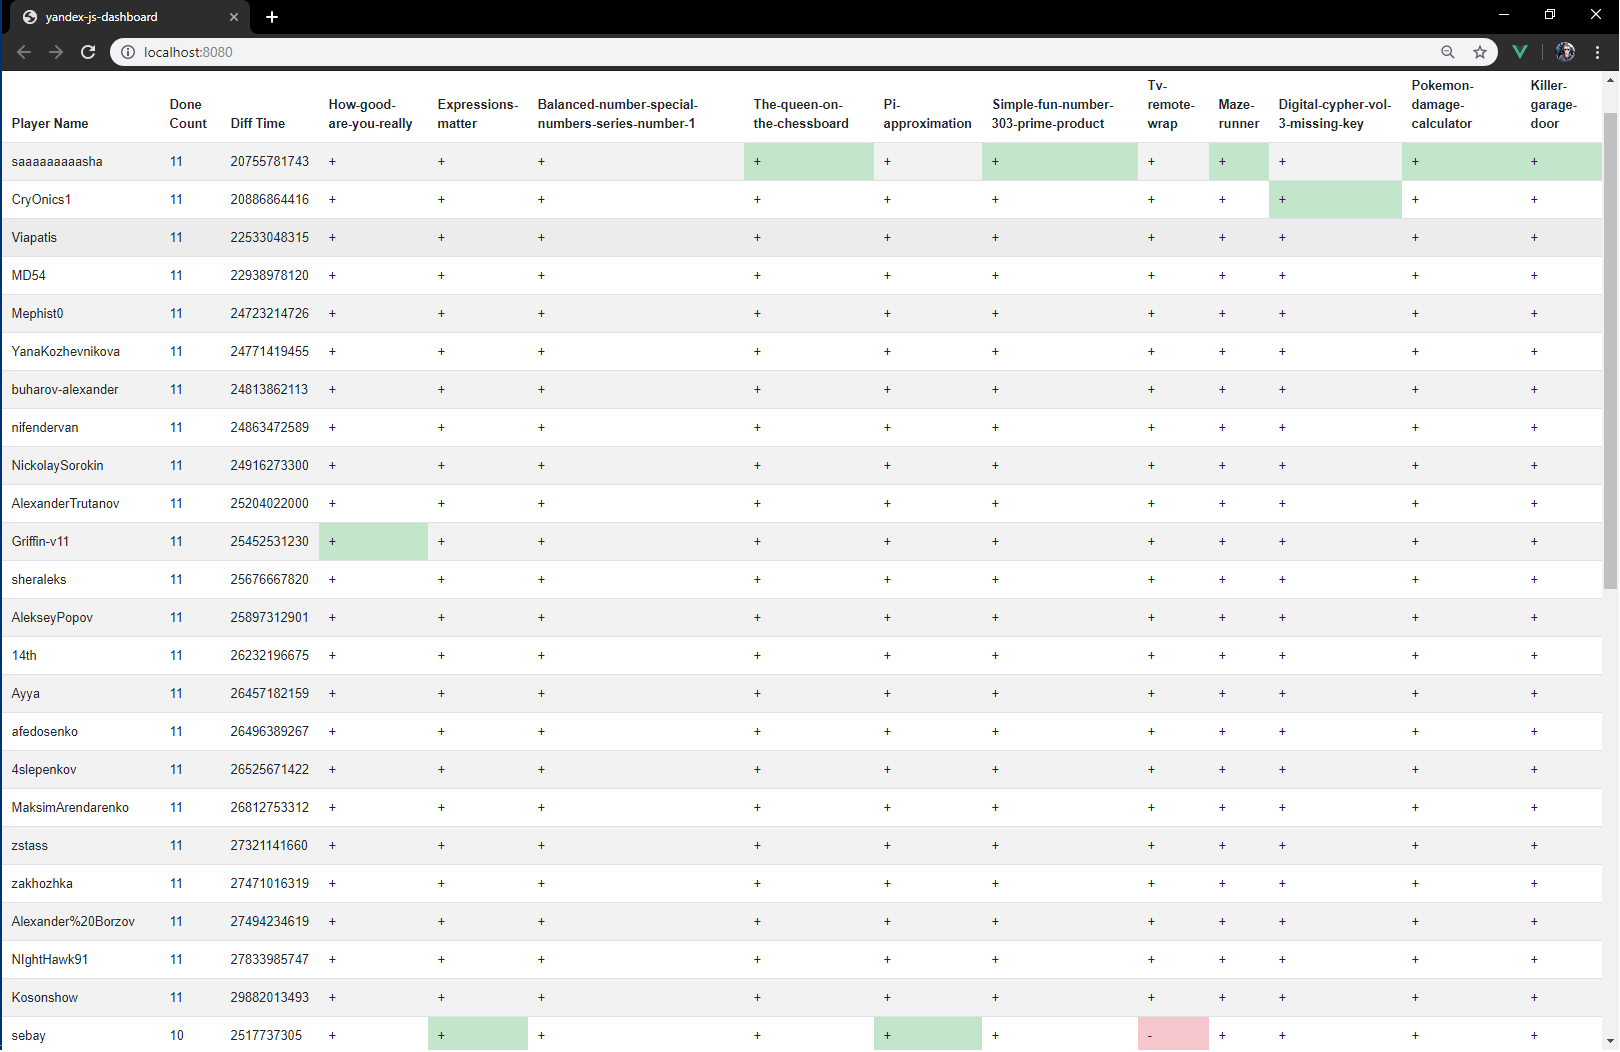
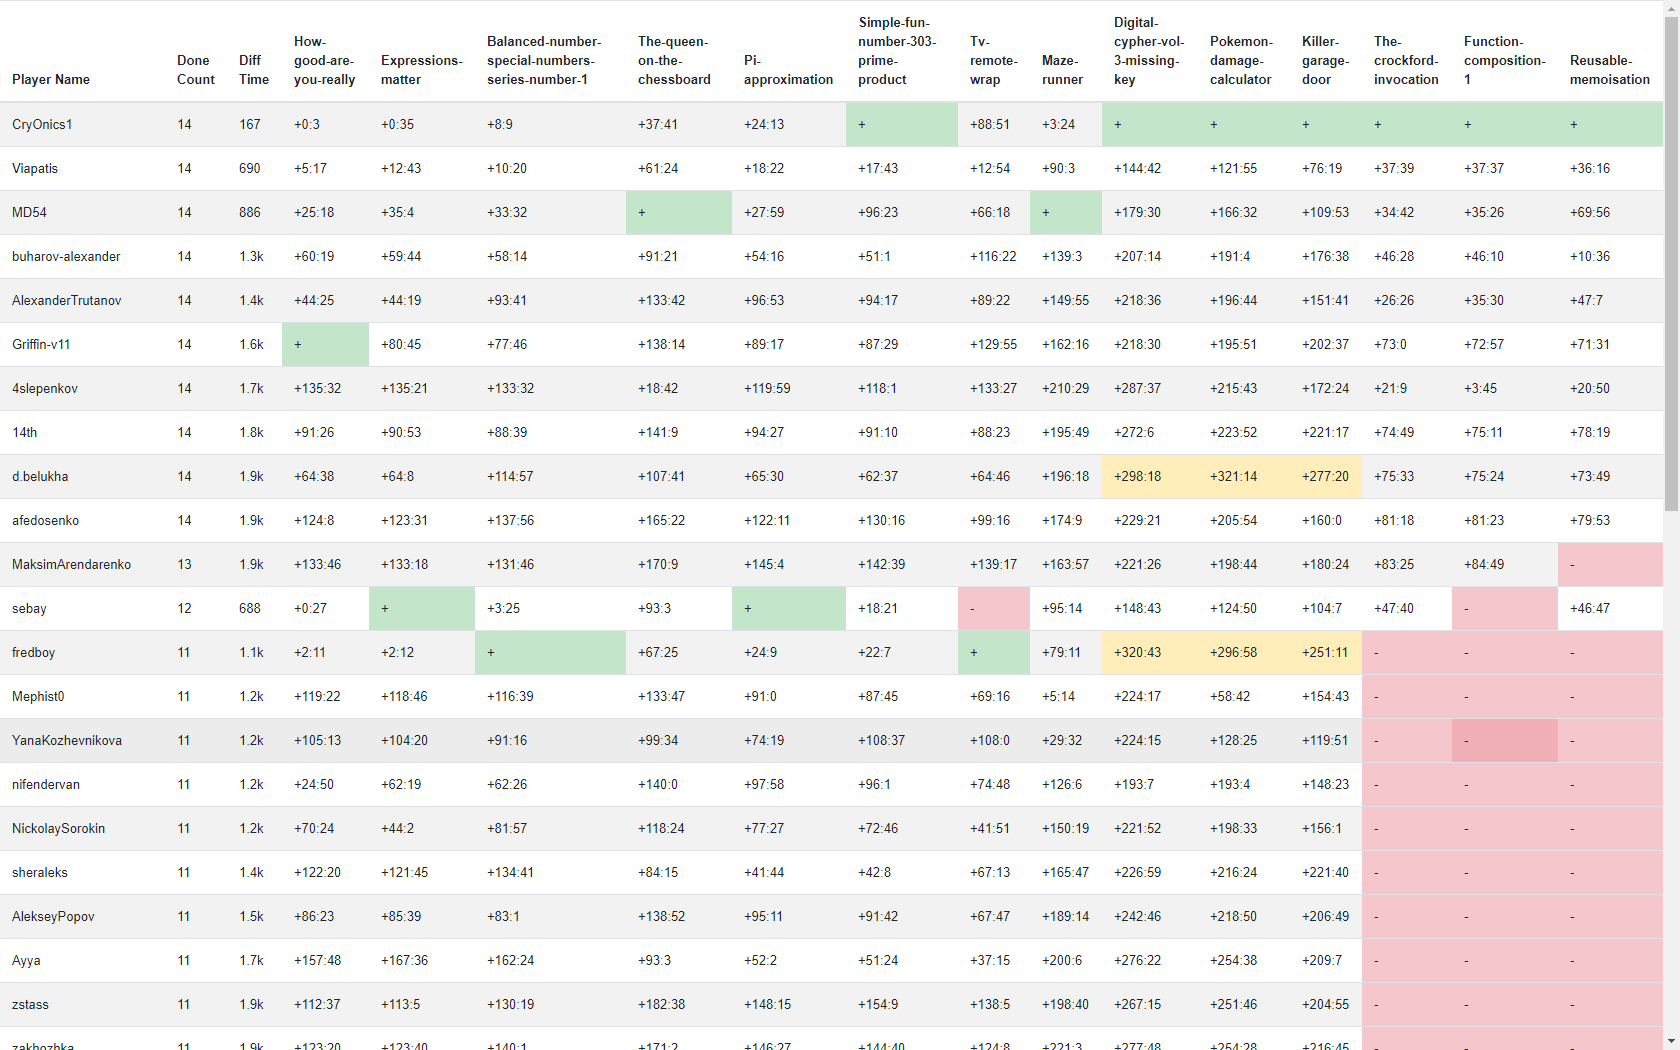
fi issue Новая фуникцональность #3

diff --git a/src/App.vue b/src/App.vue
@@ -40,6 +40,7 @@ export default {
         return adoneCount < bdoneCount ? 1 : -1;
       }
     });
+    this.items.forEach(i => (i.diffTime = this.kFormatter(i.diffTime)));
   },
   methods: {
     async getPlayersDataAsync() {
@@ -96,9 +97,8 @@ export default {
         let run_count = headersOnly ? 1 : -500; //magic number!
         for (let player of this.players) {
           if (run_count++ > 1) continue;
-          let url = 
-          "https://cors-anywhere.herokuapp.com/" + //TODO own server
-          `www.codewars.com/api/v1/users/${player}/code-challenges/completed`;
+          let url = "https://cors-anywhere.herokuapp.com/" + //TODO own server
+           `www.codewars.com/api/v1/users/${player}/code-challenges/completed`;
 
           await axios
             .get(url)
@@ -107,7 +107,7 @@ export default {
                 val["player"] = player;
                 val["time"] = val.completedAt;
 
-                if (this.challengeSlugs.includes(val.slug)) {
+                if (this.challengeSlugs.map(s => s.name).includes(val.slug)) {
                   data.push({
                     player: player,
                     slug: val.slug,
@@ -136,6 +136,11 @@ export default {
         console.log(error);
       }
     },
+    kFormatter(num) {
+      return Math.abs(num) > 999
+        ? Math.sign(num) * (Math.abs(num) / 1000).toFixed(1) + "k"
+        : Math.sign(num) * Math.abs(num);
+    },
     async fetchTableData(first) {
       this.players = await this.getPlayersDataAsync();
       this.challengeSlugs = await this.getSlugsDataAsync();
@@ -148,16 +153,22 @@ export default {
         row.diffTime = 0;
 
         row._cellVariants = {};
-        for (let slug of this.challengeSlugs) {
+        for (let slugObj of this.challengeSlugs) {
+          let slug = slugObj.name;
+          let expiryDate = slugObj.expiryDate;
+          let startDate = slugObj.startDate;
+
           let timestr = this.results
             .filter(res => {
               return res.player === player && res.slug === slug;
             })
-            .map(s => s.completedAt).reverse()[0];
+            .map(s => s.completedAt)
+            .reverse()[0];
 
           if (!first) {
-            let resultTime = new Date(timestr);
+            let comletedTime = new Date(timestr);
 
+            let resultTime = new Date(expiryDate) - comletedTime; //new Date(timestr);
             let fastestTime = this.results
               .filter(res => {
                 return res.slug === slug;
@@ -172,24 +183,35 @@ export default {
                 return 0;
               })[0];
 
-            if (resultTime instanceof Date && isFinite(resultTime)) {
+            if (resultTime) {
               row.doneCount++;
               row[slug] = "+";
 
-              if (fastestTime.getTime() === resultTime.getTime()) {
+              let diff = Math.abs(
+                comletedTime.getTime() - fastestTime.getTime()
+              );
+              let maxDiff = 12096e5; //two weeks
+
+              if (diff > maxDiff) {
+                diff = Math.abs(
+                  comletedTime.getTime() - new Date(startDate).getTime()
+                );
+              }
+
+              var seconds = diff / 1000;
+              var hours = parseInt(seconds / 3600);
+              seconds = seconds % 3600;
+              var minutes = parseInt(seconds / 60);
+
+              if (fastestTime.getTime() === comletedTime.getTime()) {
                 row._cellVariants[slug] = "success";
               } else {
-                let diff = Math.abs(
-                  resultTime.getTime() - fastestTime.getTime()
-                );
-
-                var seconds = diff / 1000;
-                var hours = parseInt(seconds / 3600);
-                seconds = seconds % 3600;
-                var minutes = parseInt(seconds / 60);
-
                 row.diffTime += Math.ceil(diff / 60000 / 60);
                 row[slug] = `+${hours}:${minutes}`;
+              }
+
+              if (resultTime < 0) {
+                row._cellVariants[slug] = "warning";
               }
             } else {
               row[slug] = "-";
@@ -210,6 +232,7 @@ export default {
 <style>
 #app {
   font-family: "Avenir", Helvetica, Arial, sans-serif;
+  font-size: small;
   -webkit-font-smoothing: antialiased;
   -moz-osx-font-smoothing: grayscale;
   text-align: left;
